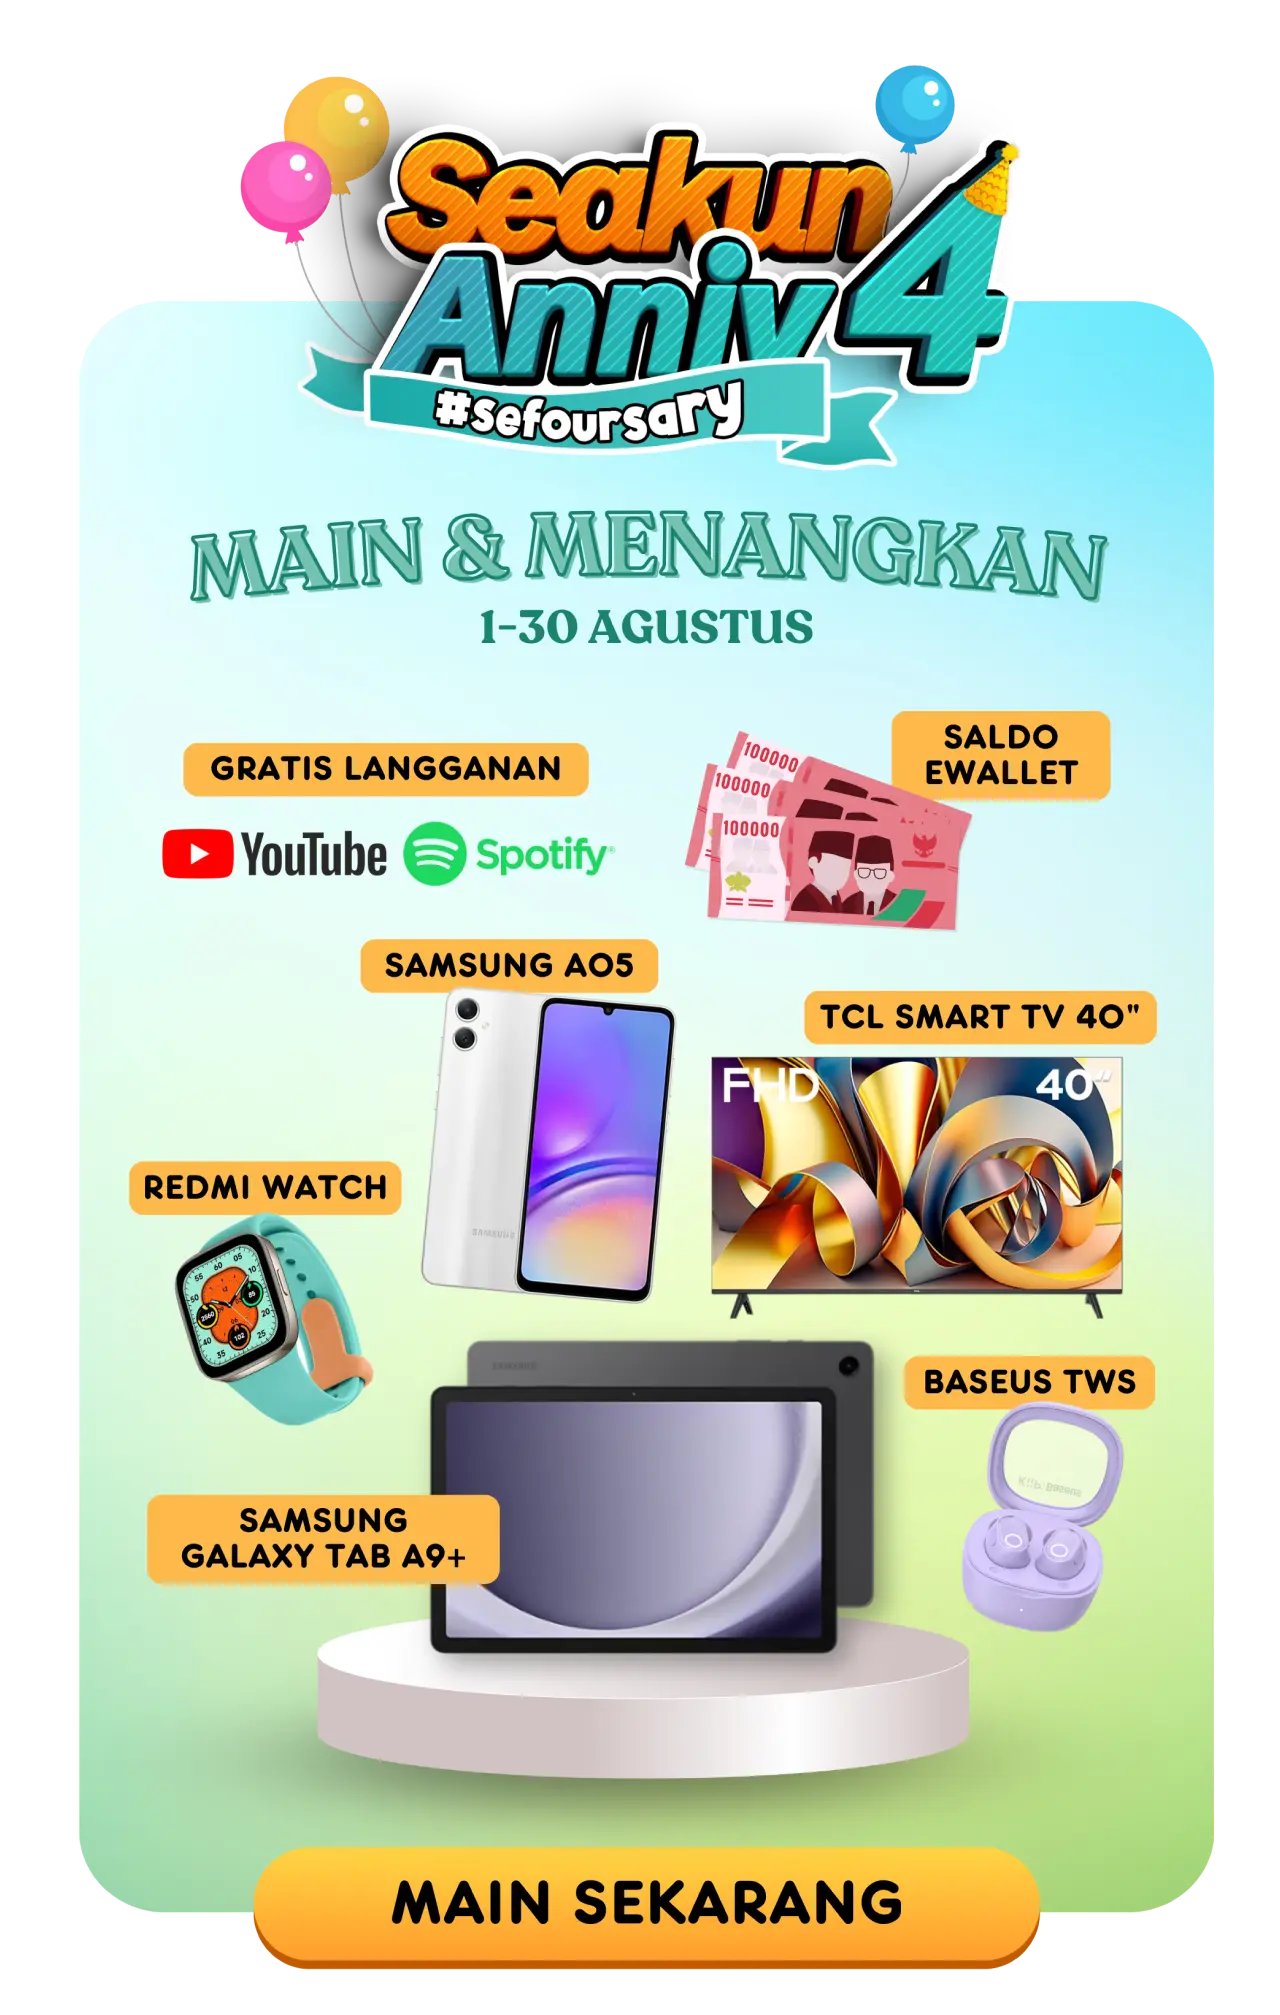
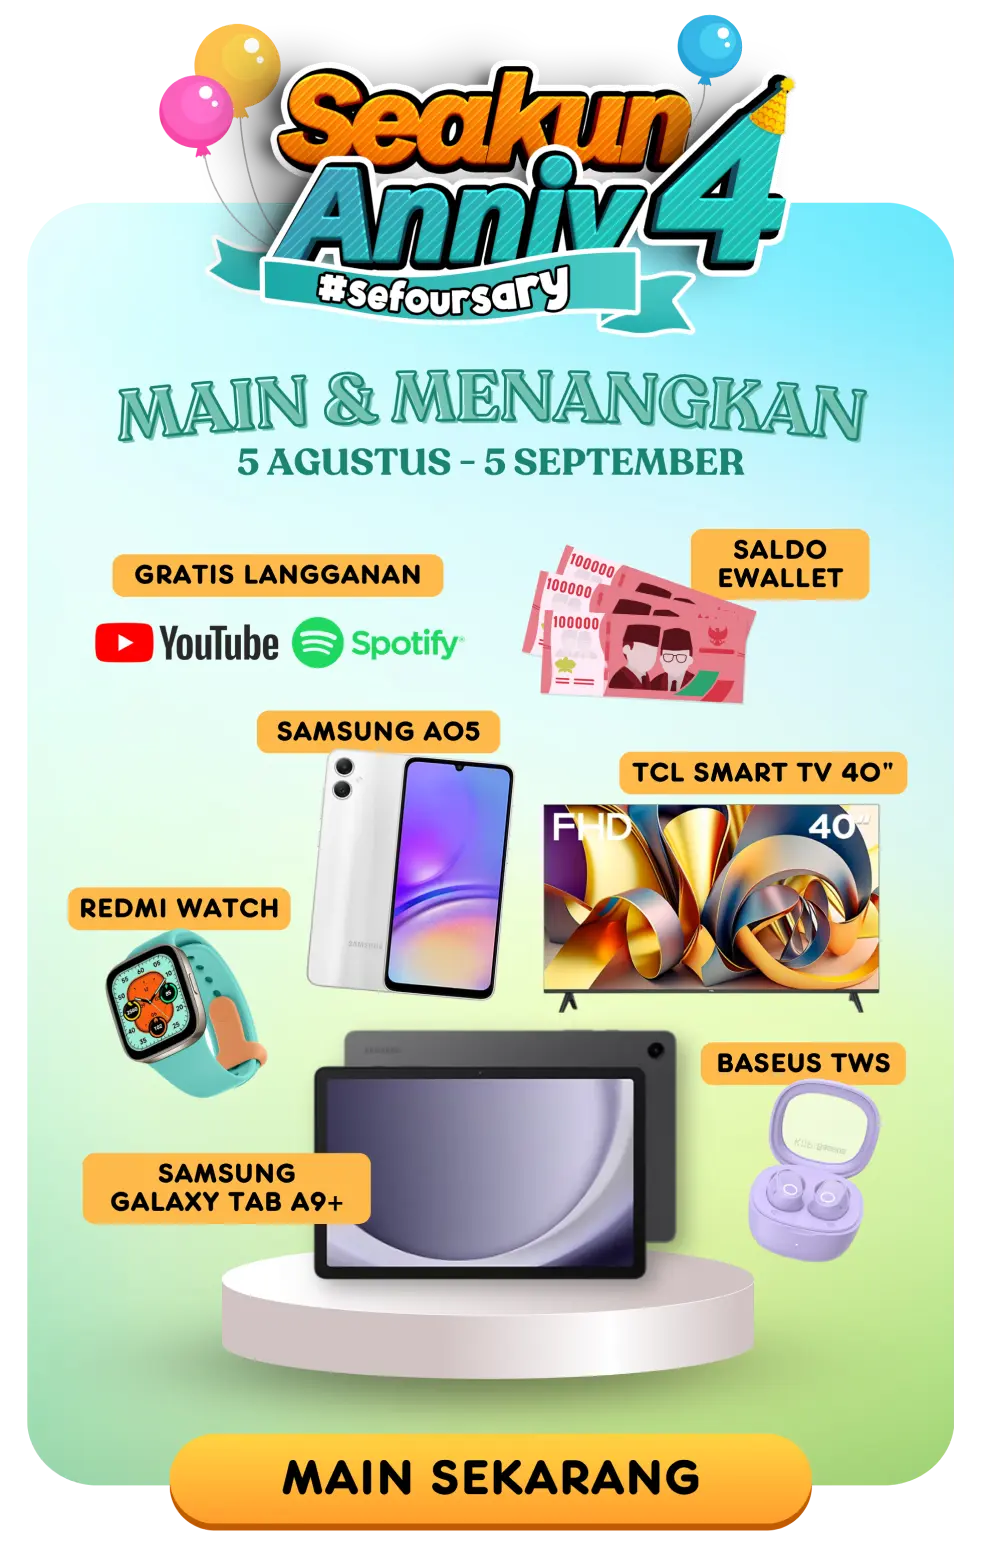
update date event

diff --git a/pages/sefoursary/game/level/index.vue b/pages/sefoursary/game/level/index.vue
@@ -24,6 +24,7 @@
         @clickMysterybox="handleMysteryBox"
         :uniqueCode="achievementUniqueCode"
         :level="currentLevel"
+        :gift-name="giftName"
       />
       <FailurePopup
         v-if="showFailurePopup"
@@ -92,6 +93,29 @@ export default {
       achievementUniqueCode: '',
       loadingChallenge: false,
       showWaitingForConfirmation: false,
+      giftName: '',
+      giftInfo: [
+        {
+          code: 'SPO',
+          name: 'Gratis Spotify 1 bulan',
+        },
+        {
+          code: 'YOU',
+          name: 'Gratis Youtube 1 bulan',
+        },
+        {
+          code: 'E20',
+          name: 'Ewallet 20k',
+        },
+        {
+          code: 'E50',
+          name: 'Ewallet 50k',
+        },
+        {
+          code: 'E100',
+          name: 'Ewallet 100k',
+        },
+      ],
     };
   },
   computed: {
@@ -220,6 +244,10 @@ export default {
               this.showWaitingForConfirmation = false;
               this.achievementUniqueCode = alreadyExixst.uniqueCode;
               this.achievementModalType = 'lottery-numbers';
+              const gift = this.giftInfo.find(
+                (item) => item.code === alreadyExixst.prizeCode
+              );
+              this.giftName = gift.name;
               this.showAchievementPopup = true;
             }
           } else {
@@ -264,8 +292,12 @@ export default {
             );
             if (getUniqueCode) {
               this.showWaitingForConfirmation = false;
-              this.achievementUniqueCode = getUniqueCode;
+              this.achievementUniqueCode = getUniqueCode.uniqueCode;
               this.achievementModalType = 'lottery-numbers';
+              const gift = this.giftInfo.find(
+                (item) => item.code === getUniqueCode.prizeCode
+              );
+              this.giftName = gift.name;
               this.showAchievementPopup = true;
             } else {
               this.showFailurePopup = true;
@@ -281,8 +313,12 @@ export default {
             );
             this.showWaitingForConfirmation = false;
             if (getUniqueCode) {
-              this.achievementUniqueCode = getUniqueCode;
+              this.achievementUniqueCode = getUniqueCode.uniqueCode;
               this.achievementModalType = 'lottery-numbers';
+              const gift = this.giftInfo.find(
+                (item) => item.code === getUniqueCode.prizeCode
+              );
+              this.giftName = gift.name;
               this.showAchievementPopup = true;
             } else {
               this.showFailurePopup = true;
@@ -302,6 +338,10 @@ export default {
               if (isAlreadyExist) {
                 this.achievementUniqueCode = isAlreadyExist.uniqueCode;
                 this.achievementModalType = 'lottery-numbers';
+                const gift = this.giftInfo.find(
+                  (item) => item.code === isAlreadyExist.prizeCode
+                );
+                this.giftName = gift.name;
                 this.showAchievementPopup = true;
               } else {
                 const isWaitingForConfirmation = await this.getIsWaitingForConfirmation(
@@ -341,6 +381,10 @@ export default {
               this.showWaitingForConfirmation = false;
               this.achievementUniqueCode = isAlreadyExist.uniqueCode;
               this.achievementModalType = 'lottery-numbers';
+              const gift = this.giftInfo.find(
+                (item) => item.code === isAlreadyExist.prizeCode
+              );
+              this.giftName = gift.name;
               this.showAchievementPopup = true;
             } else {
               const isWaitingForConfirmation = await this.getIsWaitingForConfirmation(
@@ -389,6 +433,10 @@ export default {
             const findLevel = this.arrFindMaxValue(findMyLevel, 'level');
 
             this.currentLevel = findLevel.level;
+            this.$router.replace({
+              path: '/sefoursary/game/level',
+              query: { id: this.currentLevel },
+            });
           }
         }
       } catch (error) {
@@ -475,6 +523,7 @@ export default {
             await this.postUserWin({ prizeCode, uniqueCode });
             this.achievementUniqueCode = uniqueCode;
             this.achievementModalType = 'lottery-numbers';
+            this.giftName = prizeName;
             this.showAchievementPopup = true;
           } else {
             await this.postUserWin({

diff --git a/pages/sefoursary/approval/index.vue b/pages/sefoursary/approval/index.vue
@@ -110,11 +110,20 @@ export default {
 
         const res = await this.SefoursaryService.pushNotification(payload);
       } catch (error) {
-        this.$alert.show({
-          status: 'error',
-          message: 'Gagal mengirimkan kode undian',
-        });
-        console.log('error', error);
+        if (error?.response?.status === 404) {
+          this.$alert.show({
+            status: 'error',
+            title: 'Gagal mengirim notifikasi',
+            message: 'User belum login di mobile app',
+            duration: 6000,
+          });
+        } else {
+          this.$alert.show({
+            status: 'error',
+            message: 'Gagal mengirimkan kode undian',
+          });
+        }
+        console.log('error', error.response);
       }
     },
     async postLottery() {

diff --git a/components/sefoursary/game/AchievementPopup.vue b/components/sefoursary/game/AchievementPopup.vue
@@ -146,7 +146,8 @@
           <p
             class="text-sm sm:text-base text-gray-secondary font-bold text-center max-w-[243px] sm:max-w-[304px]"
           >
-            Screenshot bukti nomor unik dan laporkan ke admin untuk klaim.
+            Selamat! Kamu mendapatkan {{ giftName }}. Screenshot nomor unik
+            hadiah ini dan laporkan ke admin untuk klaim.
           </p>
           <div
             class="sm:text-[28px] mt-4 sm:mt-7 bg-[#F1EFEF] w-max text-[#D23157] font-black h-[41px] sm:h-[60px] flex gap-1 sm:gap-2 justify-center items-center px-3 sm:px-4 rounded-[6px] mx-auto"
@@ -208,6 +209,10 @@ export default {
     level: {
       type: Number,
       default: 1,
+    },
+    giftName: {
+      type: String,
+      default: '',
     },
   },
   computed: {

diff --git a/components/sefoursary/game/Challenge.vue b/components/sefoursary/game/Challenge.vue
@@ -70,10 +70,10 @@
         >
           <div v-if="isLoading">
             <div
-              class="bg-[#19C09E] border border-[#15A386] w-[100px] sm:w-[140] sm:h-11 h-8 flex justify-center items-center text-white rounded-lg text-sm sm:text-base font-extrabold mx-auto"
+              class="bg-[#19C09E] border border-[#15A386] min-w-[100px] sm:min-w-[140] sm:h-11 h-8 flex justify-center items-center text-white rounded-lg text-sm sm:text-base font-extrabold mx-auto space-x-1 px-2"
             >
               <i class="fa-solid fa-circle-notch fa-spin"></i>
-              <span> Loading... </span>
+              <span>Loading... </span>
             </div>
           </div>
           <div v-else>Kirim</div>

diff --git a/components/sefoursary/HowToClaim.vue b/components/sefoursary/HowToClaim.vue
@@ -211,7 +211,7 @@ export default {
         },
         {
           title:
-            'Hadiah akan dikirimkan serentak di hari Jumat, 30 Agustus 2024',
+            'Hadiah akan dikirimkan serentak di hari Senin, 9 September 2024',
         },
       ],
       lotteryPrize: [
@@ -219,7 +219,7 @@ export default {
           title: 'Salin nomor undian',
         },
         {
-          title: 'Pasang alarm PUNCAK LIVE UNDIAN 31 AGUSTUS',
+          title: 'Pasang alarm PUNCAK LIVE UNDIAN 9 SEPTEMBER',
         },
         {
           title: 'Hadiri LIVE di sosial media Seakun',

diff --git a/components/sefoursary/LotteryPaymentResult.vue b/components/sefoursary/LotteryPaymentResult.vue
@@ -75,7 +75,7 @@
             class="font--dongle text-base sm:text-lg max-w-[254px] sm:max-w-[312px] mx-auto leading-[14px] sm:leading-[18px] sm:mt-5"
           >
             Screenshot bukti undian dan Ikuti pengundian di IG/Tiktok @seakun.id
-            pada tanggal 31 Agustus 2024
+            pada tanggal <b>9 September 2024</b>
           </p>
         </div>
       </div>

diff --git a/services/SefoursaryService.js b/services/SefoursaryService.js
@@ -165,7 +165,7 @@ export async function getUniqueCodeGift(email, level) {
     if (data) {
       const findData = data.find((item) => item.level == level);
       if (findData.uniqueCode !== 'nothing') {
-        return findData.uniqueCode;
+        return findData;
       } else {
         return false;
       }

diff --git a/components/sefoursary/TermsAndConditions.vue b/components/sefoursary/TermsAndConditions.vue
@@ -40,7 +40,7 @@ export default {
     termsAndContions: [
       {
         term:
-          'Program berlangsung dari tanggal 1 Agustus hingga 31 Agustus 2024.',
+          'Program berlangsung dari tanggal 5 Agustus hingga 5 September 2024.',
       },
       {
         term:
